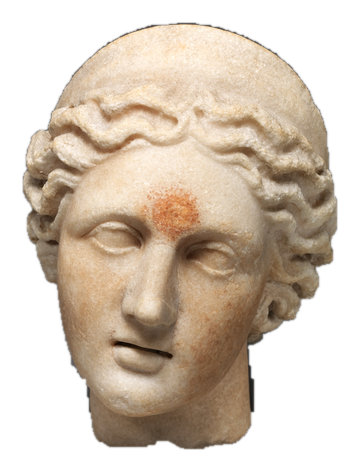
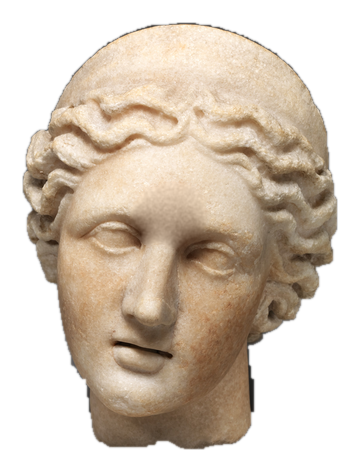
Odyssey G4: Sirens and tags leave before the push-in so no text is cut; Calypso head stain retouched

Changed region(s): [[0.3667, 0.3856, 0.5806, 0.5339]]

diff --git a/video/odyssey/src/shots/G4/SC14.tsx b/video/odyssey/src/shots/G4/SC14.tsx
@@ -1,7 +1,7 @@
 import React from 'react';
 import {AbsoluteFill, useCurrentFrame} from 'remotion';
 import {clamp01, easeOutCubic, easeInOutPow} from '../../common';
-import {C, CAST, CREW_HEADS, Grain, PaperWipe, PaperTag, SpeechBubble, DottedPath, PaperCharacter, Boat, FONT, prog, rock, samplePath} from '../../paper';
+import {C, CAST, CREW_HEADS, Grain, PaperWipe, PaperTag, SpeechBubble, DottedPath, PaperCharacter, Boat, FONT, peelCss, prog, rock, samplePath} from '../../paper';
 import {Back14, Front14, Meadow14, Back15, BG15} from './bg';
 import {Siren, NoteBubble, Crew, Rope, heroMap, kick} from './kit';
 
@@ -11,12 +11,22 @@ import {Siren, NoteBubble, Crew, Rope, heroMap, kick} from './kit';
  * 4345 sirens slap in, the sea sheet and the boat slide in; 4390 "2" tag (+3: "A DUET, NOT A CHOIR"); 4446 two dotted lines run from the singers to the boat and
  * "knowledge" note bubbles stream along them; 4518 wax plugs pop into the rowers' ears; 4590 ropes wrap Odysseus, he strains;
  * 4657 headphones slap on the rowers; 4701 Odysseus's speech bubble. Camera: push-in to Odysseus 4610–4652, ends 108 frames before the shot's end.
+ * 4601–4608 the singers and both tags peel off to the left, before the push carries them to the frame edge (no text or robe is ever cut by an edge); the dotted lines fade out from their singer ends and keep running to his ear.
  * Hold: bubble opens 4701 → 4709, exit starts 4760 (51 frames). Exit: the strait's water sheet (#285F80) wipes in over the last 8 frames.
  */
 const F0 = 4337;
 const END = 4768;
 const EXIT = END - 8;
 const B = {sirens: 4345, two: 4390, notes: 4446, wax: 4518, rope: 4590, phones: 4657, bubble: 4701};
+const PEEL = {a: 4601, len: 8}; // singers and tags leave; the push starts 4610
+// once the singers have left, the dotted lines fade out from their singer ends (x grows 140 → 310) while the camera carries that end out of the frame
+const lineFade = (N: number): React.CSSProperties => {
+  if (N < PEEL.a) return {};
+  const x = 140 + 170 * prog(N, PEEL.a, 50, easeInOutPow(2));
+  const m = `linear-gradient(to right, transparent ${x.toFixed(1)}px, #000 ${(x + 36).toFixed(1)}px)`;
+  return {WebkitMaskImage: m, maskImage: m};
+};
+const peeling = (N: number, ox: number, oy: number): React.CSSProperties => ({position: 'absolute', left: 0, top: 0, width: 1280, height: 720, transformOrigin: `${ox}px ${oy}px`, ...(N >= PEEL.a ? peelCss(N - PEEL.a, PEEL.len, -1) : {})});
 const PUSH = {a: 4610, len: 42};
 const CAM0 = {x: 640, y: 360, s: 1};
 const CAM1 = {x: 900, y: 330, s: 1.22};
@@ -84,12 +94,18 @@ export const SC14: React.FC = () => {
       <Grain />
       <div style={world}>
         {/* the two singers on the meadow */}
-        <Siren cx={150} by={770} h={430} N={N} v={0} phase={0} n={N - (B.sirens - 2)} dir={-1} />
-        <Siren cx={322} by={770} h={430} N={N} v={1} phase={11} n={N - (B.sirens + 1)} dir={1} />
+        {N < PEEL.a + PEEL.len - 1 ? (
+          <div style={peeling(N, 236, 770)}>
+            <Siren cx={150} by={770} h={430} N={N} v={0} phase={0} n={N - (B.sirens - 2)} dir={-1} />
+            <Siren cx={322} by={770} h={430} N={N} v={1} phase={11} n={N - (B.sirens + 1)} dir={1} />
+          </div>
+        ) : null}
 
         {/* dotted lines and note bubbles */}
-        <DottedPath d={PATH_A.d} N={N} reveal={prog(N, B.notes - 2, 22, easeOutCubic)} speed={0.7} width={7} />
-        <DottedPath d={PATH_B.d} N={N} reveal={prog(N, B.notes + 2, 22, easeOutCubic)} speed={0.7} width={7} />
+        <div style={{position: 'absolute', left: 0, top: 0, width: 1280, height: 720, ...lineFade(N)}}>
+          <DottedPath d={PATH_A.d} N={N} reveal={prog(N, B.notes - 2, 22, easeOutCubic)} speed={0.7} width={7} />
+          <DottedPath d={PATH_B.d} N={N} reveal={prog(N, B.notes + 2, 22, easeOutCubic)} speed={0.7} width={7} />
+        </div>
         <Notes N={N} />
 
         {/* boat: hull, rowers, mast, Odysseus, oars */}
@@ -160,8 +176,12 @@ export const SC14: React.FC = () => {
         </div>
 
         {/* tags */}
-        <PaperTag text="2" x={118} y={250} rot={-6} size={96} n={N - B.two} bg={C.yellow} color={C.navy} />
-        <PaperTag text="A DUET, NOT A CHOIR" x={270} y={556} rot={-3} size={34} n={N - (B.two + 3)} dir={-1} color={C.navy} />
+        {N < PEEL.a + PEEL.len - 1 ? (
+          <div style={peeling(N, 240, 400)}>
+            <PaperTag text="2" x={118} y={250} rot={-6} size={96} n={N - B.two} bg={C.yellow} color={C.navy} />
+            <PaperTag text="A DUET, NOT A CHOIR" x={270} y={556} rot={-3} size={34} n={N - (B.two + 3)} dir={-1} color={C.navy} />
+          </div>
+        ) : null}
 
         {/* Odysseus's bubble */}
         {N >= B.bubble ? (
@@ -180,14 +200,14 @@ export const SC14: React.FC = () => {
 };
 
 /** Note bubbles stream along both dotted lines from 4446 on: one every 17 frames per line, 70 frames from mouth to ear.
- *  The last one leaves at 4640 and has arrived by 4710, so the hold (4709 → 4760) is calm. */
+ *  They stop with the singers (the last one leaves at 4599 and has arrived by 4669), so the hold (4709 → 4760) is calm. */
 const Notes: React.FC<{N: number}> = ({N}) => {
   const out: React.ReactNode[] = [];
   const lines: Array<[typeof PATH_A, number, string]> = [[PATH_A, B.notes, 'a'], [PATH_B, B.notes + 3, 'b']];
   for (const [path, start, tag] of lines) {
     for (let j = 0; j < 24; j++) {
       const e = start + j * 17;
-      if (e > 4640) break;
+      if (e > PEEL.a) break;
       const t = (N - e) / 70;
       if (t < 0 || t > 1) continue;
       const q = path.at(t);

diff --git a/video/odyssey/public/assets/odyssey/img/MANIFEST.md b/video/odyssey/public/assets/odyssey/img/MANIFEST.md
@@ -33,7 +33,7 @@ Processing: downscaled to at most 2000 px on the long side, JPEG quality 85; PNG
 | `argos_rijks_RP-P-1975-75-67.jpg` | Odysseus and his dog Argos, print (SC25) | Rijksmuseum, RP-P-1975-75-67 | Odysseus bij de stervende hond Argus / Ulysses & his dog (after John Flaxman, print by James Parker, 1805) | https://www.rijksmuseum.nl/en/collection/RP-P-1975-75-67 | https://iiif.micr.io/JyZuW/full/max/0/default.jpg | "Public Domain" (Public Domain Mark 1.0) on the image record https://id.rijksmuseum.nl/202778117; object data CC0. Full image 4047×2717. Crop x708–3006, y491–2356: the plate with its title and verse, sheet margins cut; then downscaled to 2000×1623. Calm outline print, no harm shown. | 2026-10-10 |
 | `eurycleia_met251812.jpg` | Eurycleia relief, foot-washing strip (SC25) | The Met, 251812 | Terracotta plaque (relief of the homecoming of Odysseus), Greek, Melian, ca. 450 BCE | https://www.metmuseum.org/art/collection/search/251812 | https://images.metmuseum.org/CRDImages/gr/original/DT5590.jpg | Public Domain (`isPublicDomain: true`; Met Open Access, CC0). Full image 3225×3698. Crop x1162–3038, y2034–3289 of 3225×3698: the lower strip with the kneeling Eurycleia, the foot being washed and the skirt of the standing woman. The whole plaque shows a nude standing man, a nude seated man and a bare-breasted woman, so it cannot be shown whole. | 2026-10-10 |
 | `athena_met248642.png` | Athena (head) | The Met, 248642 | Marble head of Athena, Roman, ca. 27 BCE–68 CE | https://www.metmuseum.org/art/collection/search/248642 | https://images.metmuseum.org/CRDImages/gr/original/DP119212.jpg | Public Domain (`isPublicDomain: true`; Met Open Access, CC0). Full image 3000×4000. Whole head cut out, stand pin left out, neck cut. Candidate 258077 (Athena Medici) was tried first: nose missing, flat-topped block with no helmet, so it does not read as Athena at 60–120 px. | 2026-10-10 |
-| `calypso_met254496.png` | Calypso (head, woman) | The Met, 254496 | Marble head of a goddess wearing a diadem, Roman, 1st–2nd century CE | https://www.metmuseum.org/art/collection/search/254496 | https://images.metmuseum.org/CRDImages/gr/original/DP271743.jpg | Public Domain (`isPublicDomain: true`; Met Open Access, CC0). Full image 3404×4000. Whole head cut out, plinth and shadow left out, neck cut straight. Face intact, studio background plain. | 2026-10-10 |
+| `calypso_met254496.png` | Calypso (head, woman) | The Met, 254496 | Marble head of a goddess wearing a diadem, Roman, 1st–2nd century CE | https://www.metmuseum.org/art/collection/search/254496 | https://images.metmuseum.org/CRDImages/gr/original/DP271743.jpg | Public Domain (`isPublicDomain: true`; Met Open Access, CC0). Full image 3404×4000. Whole head cut out, plinth and shadow left out, neck cut straight. Face intact, studio background plain. Red stain on the forehead retouched to the marble tone. | 2026-10-10 |
 | `telemachus_met248901.png` | Telemachus (head, a youth) | The Met, 248901 | Marble head of a youth, Greek, 4th century BCE | https://www.metmuseum.org/art/collection/search/248901 | https://images.metmuseum.org/CRDImages/gr/original/DP202807.jpg | Public Domain (`isPublicDomain: true`; Met Open Access, CC0). Full image 4000×4000. Whole head cut out, plinth and shadow left out, neck cut straight. Face intact, studio background plain. | 2026-10-10 |
 | `mentor_met255420.png` | Mentor (head, old bearded man) | The Met, 255420 | Marble head of a bearded man from a herm, Greek, Attic, ca. 450–425 BCE | https://www.metmuseum.org/art/collection/search/255420 | https://images.metmuseum.org/CRDImages/gr/original/DP261228.jpg | Public Domain (`isPublicDomain: true`; Met Open Access, CC0). Full image 1730×2000. Whole head cut out, plinth and shadow left out, neck cut straight. Face intact, studio background plain. | 2026-10-10 |
 | `maid_met255423.png` | Maid (head, woman) | The Met, 255423 | Marble head of a young woman from a funerary statue, Greek, Attic, late 4th century BCE | https://www.metmuseum.org/art/collection/search/255423 | https://images.metmuseum.org/CRDImages/gr/original/DP123915.jpg | Public Domain (`isPublicDomain: true`; Met Open Access, CC0). Full image 3000×4000. Whole head and neck cut out, bust below the neck left out, shadow left out. | 2026-10-10 |
